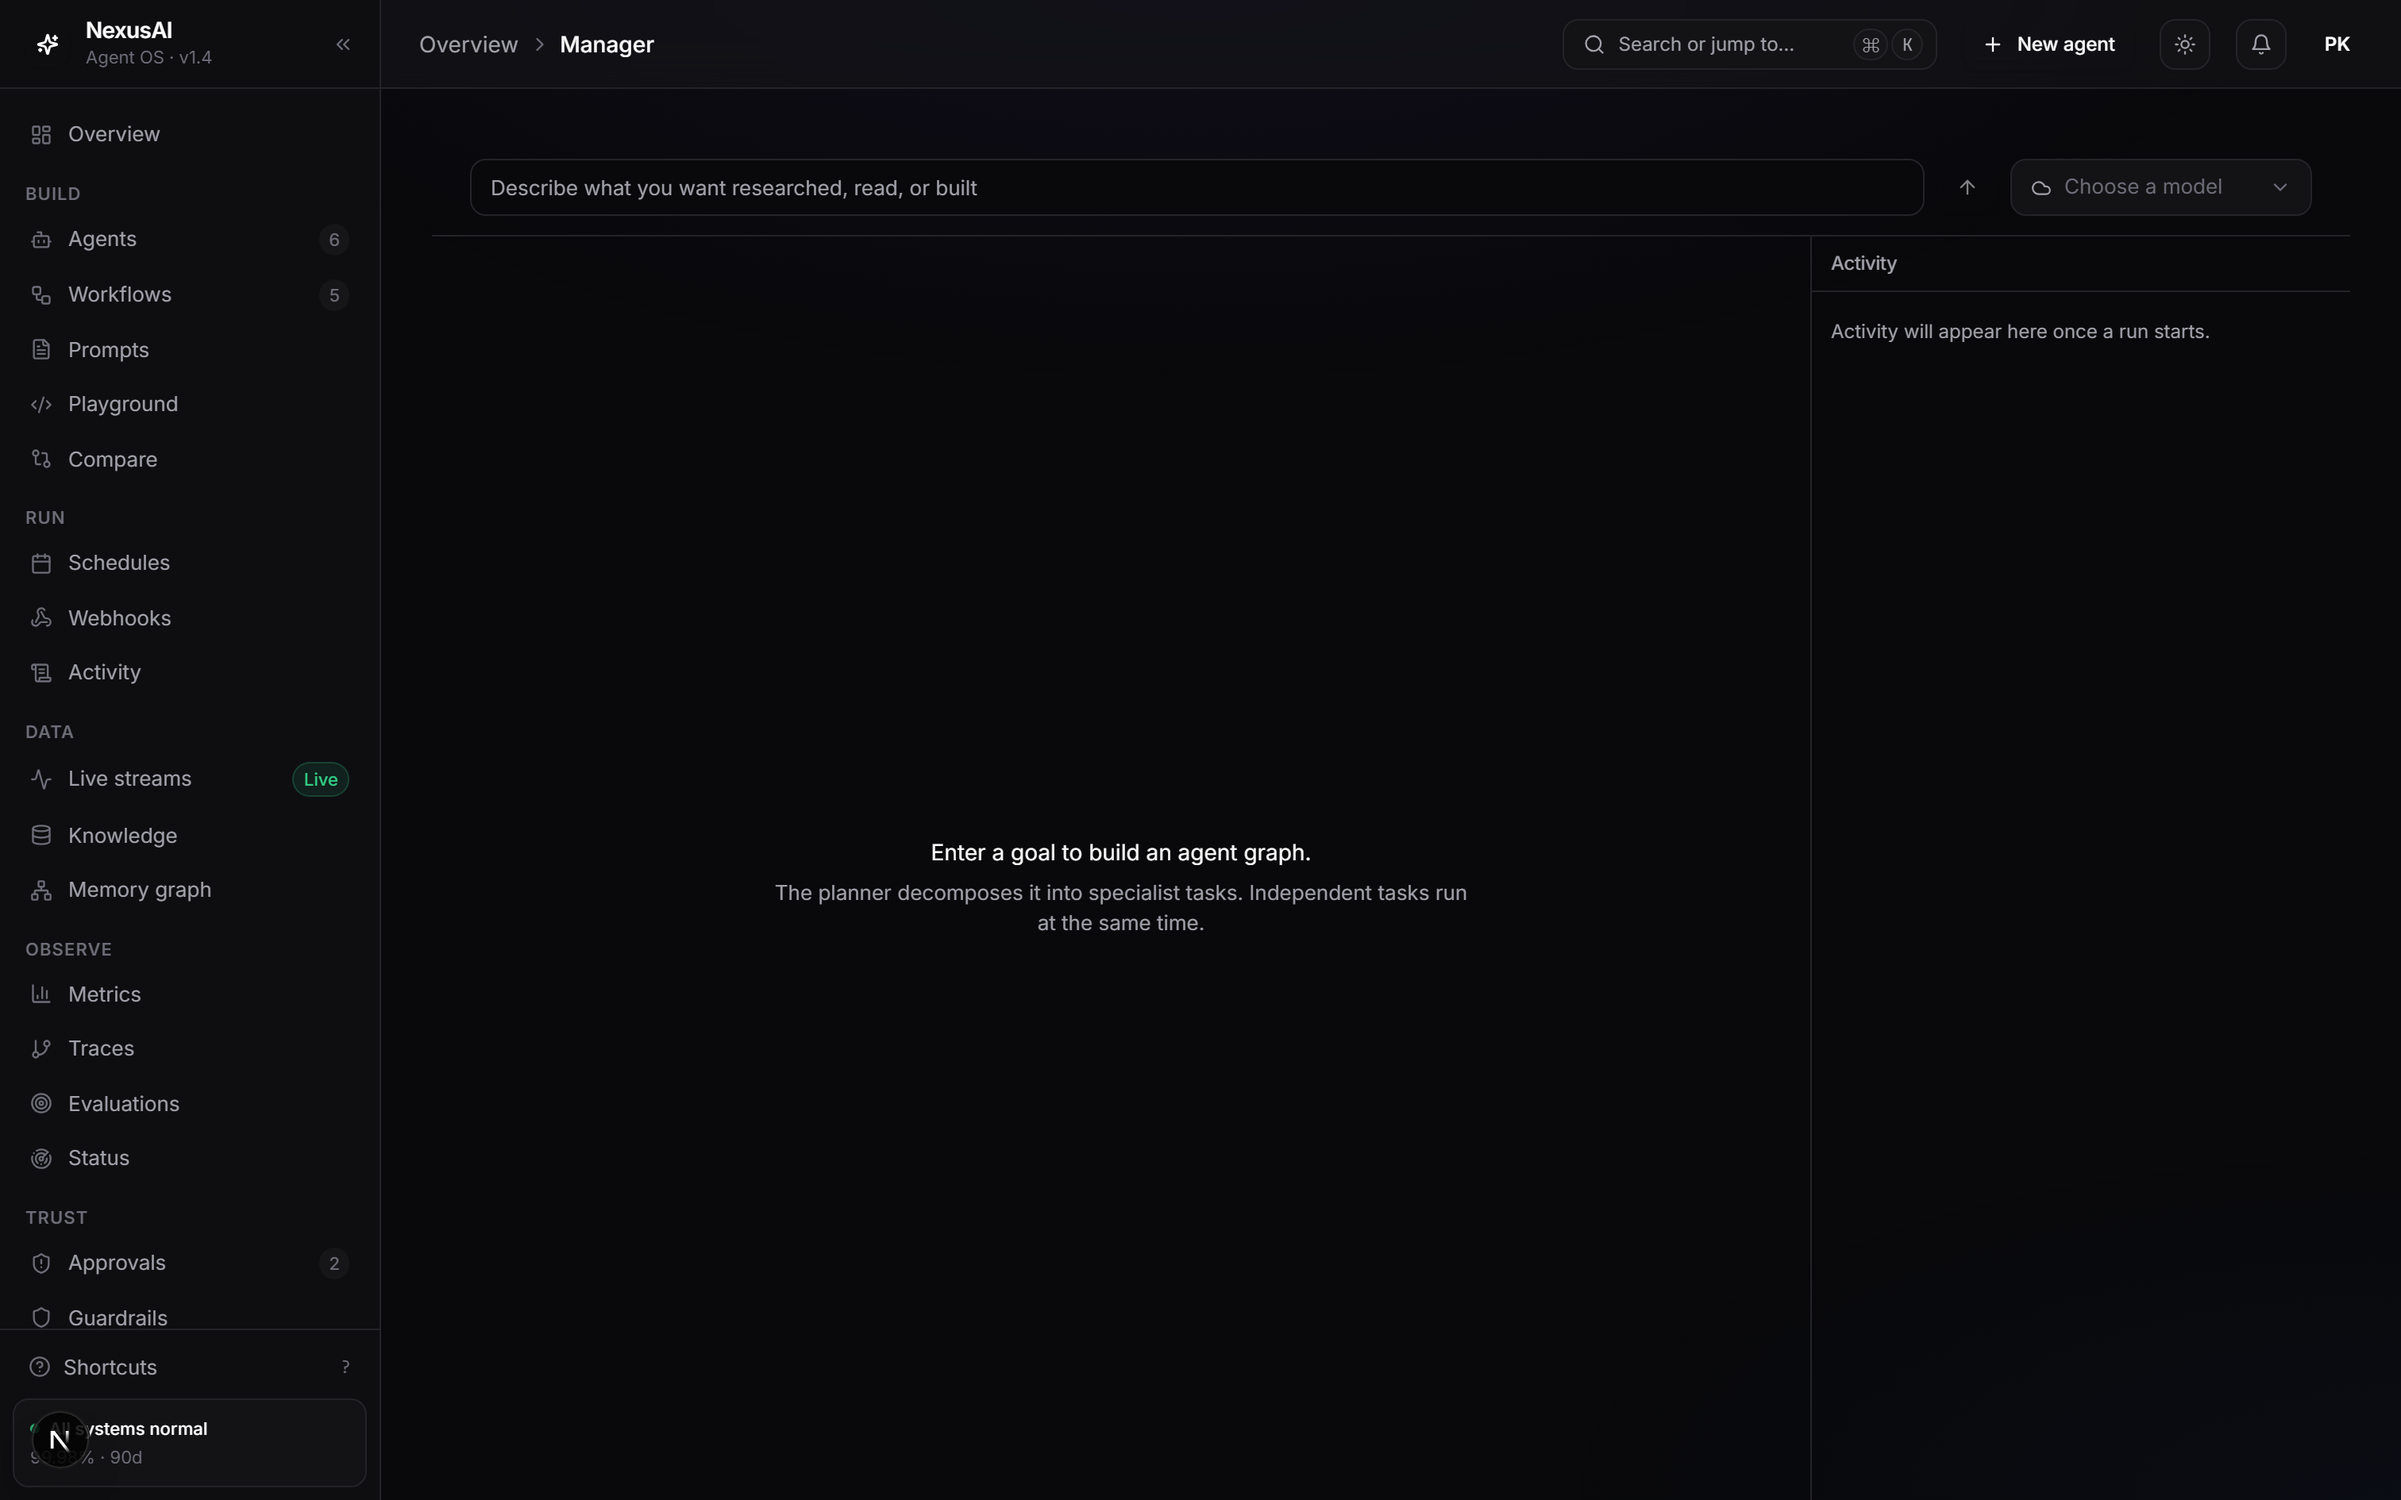
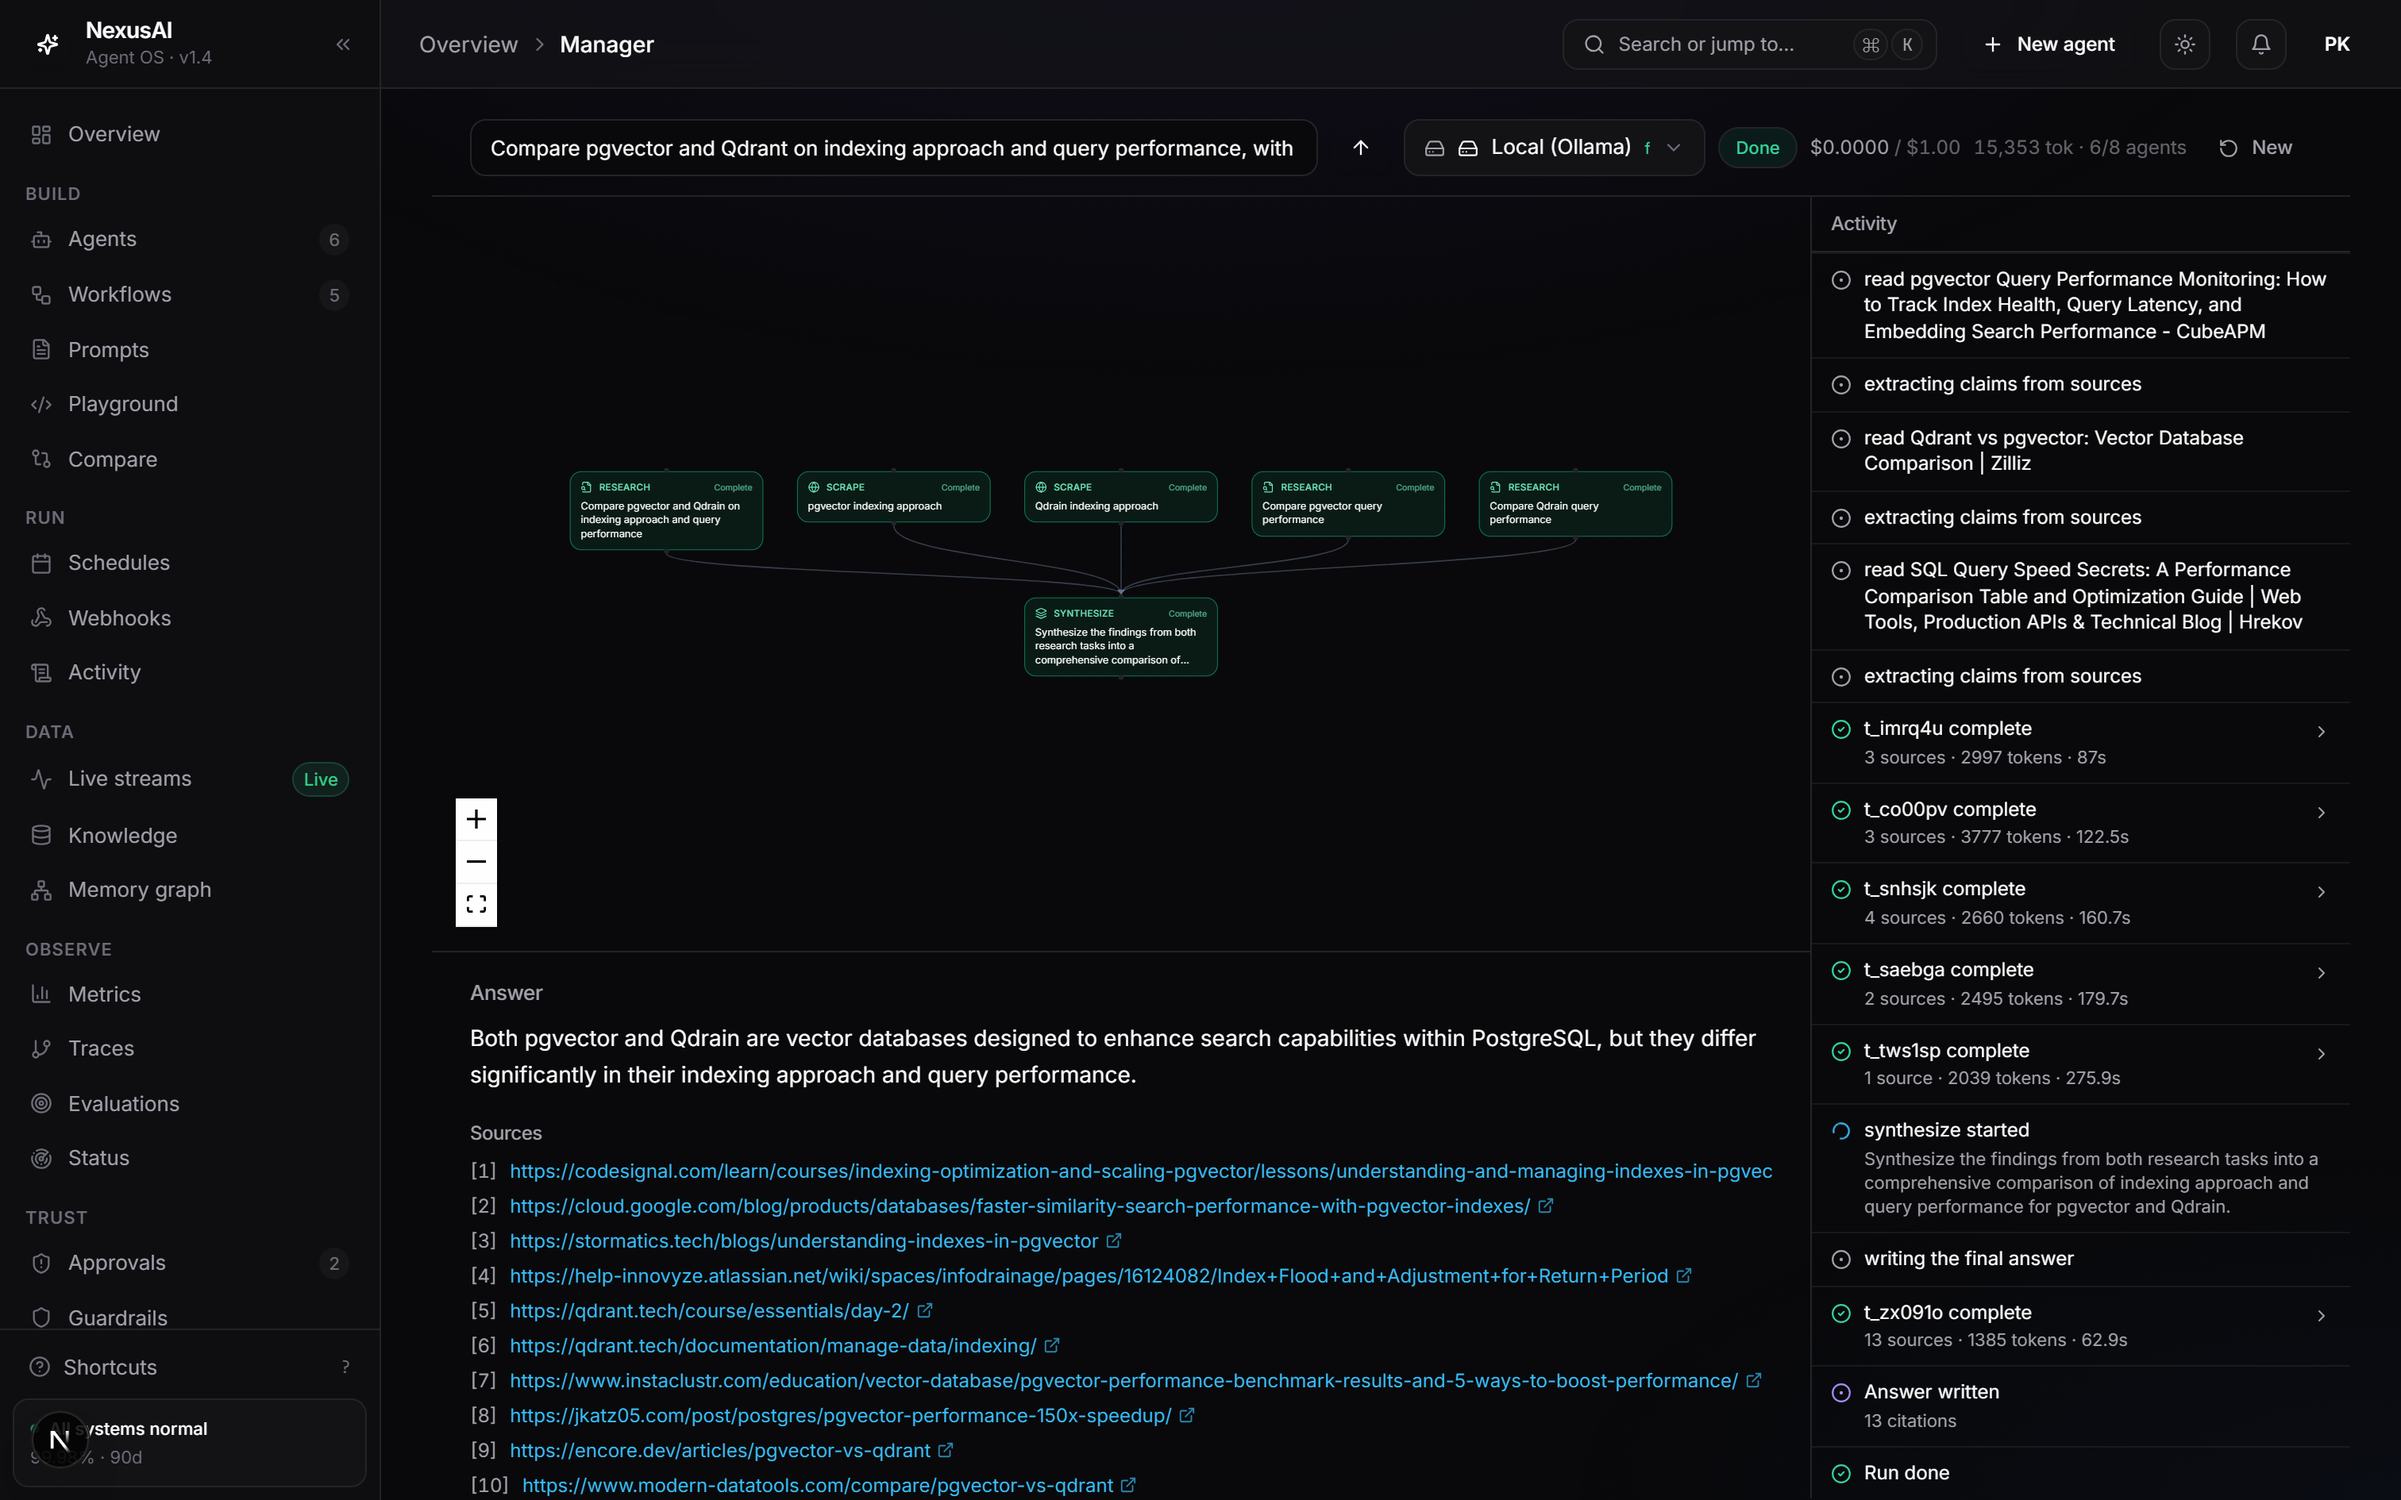
feat(web): deep-link runs, live budget, and a real manager screenshot
Three things, all found by capturing the page against a real run.

A run was not linkable. Its state lived only in React, so closing the tab lost
it and there was no way to hand a run to someone else. `?run=<id>` now reopens a
run — goal, plan and current state are loaded and the event stream replays from
the beginning — and starting a run puts its id in the URL.

The budget in the header read zero for the whole run while workers were visibly
burning thousands of tokens. The run record only gets its final budget when the
run ends, and a snapshot event is only published under budget pressure, so
neither source alone reports anything mid-run. Spend is now derived from the
worker_done events as they arrive.

The manager screenshot is a genuine completed run against a local model, not a
posed empty state: six nodes green, the answer, and thirteen real citations.

Verified end to end on qwen2.5:1.5b through Ollama — planning, five-way parallel
fan-out, real page fetches from qdrant.tech, cloud.google.com and others, then
synthesis. Status done, 15,353 tokens, 6 of 8 agents, $0.00.

191 unit tests pass; web typecheck clean.

diff --git a/apps/web/app/manager/page.tsx b/apps/web/app/manager/page.tsx
@@ -56,6 +56,38 @@ export default function ManagerPage() {
     };
   }, []);
 
+  // ─── Attach to an existing run ────────────────────────────────
+
+  // `?run=<id>` reopens a run: its goal, plan and current state are loaded, and the event
+  // stream replays from the beginning. That makes a run linkable — shareable with someone
+  // else, or reopened after closing the tab, rather than being lost with the page state.
+  useEffect(() => {
+    if (typeof window === "undefined") return;
+    const requested = new URLSearchParams(window.location.search).get("run");
+    if (!requested) return;
+
+    let cancelled = false;
+    managerApi
+      .getRun(requested)
+      .then((run) => {
+        if (cancelled) return;
+        setGoal(run.goal);
+        setDetail(run);
+        setStatus(run.status);
+        if (run.plan) setPlan(run.plan);
+        setRunId(run.run_id);
+      })
+      .catch((error) => {
+        if (cancelled) return;
+        toast.error(
+          error instanceof ManagerUnreachable ? error.message : `Could not open run: ${error.message}`,
+        );
+      });
+    return () => {
+      cancelled = true;
+    };
+  }, []);
+
   // ─── Event stream ─────────────────────────────────────────────
 
   useEffect(() => {
@@ -129,9 +161,33 @@ export default function ManagerPage() {
     return details;
   }, [events]);
 
-  const budget = detail?.budget ?? (events.findLast((e) => e.payload.snapshot)?.payload.snapshot as
-    | RunDetail["budget"]
-    | undefined);
+  // Spend has to be derived from the stream while a run is in flight. The run record only
+  // gets its final budget when the run ends, and a snapshot event is only published under
+  // budget pressure — so relying on either alone leaves the header reading zero for the
+  // whole run while workers are visibly burning tokens.
+  const budget = useMemo(() => {
+    const snapshot = events.findLast((e) => e.payload.snapshot)?.payload.snapshot as
+      | RunDetail["budget"]
+      | undefined;
+    const base = (status === "done" || status === "partial" || status === "error"
+      ? detail?.budget
+      : undefined) ?? snapshot ?? detail?.budget;
+    if (!base) return undefined;
+
+    const finished = events.filter((e) => e.kind === "worker_done");
+    const observedTokens = finished.reduce((sum, e) => sum + (e.payload.result?.tokens_used ?? 0), 0);
+    const observedCost = finished.reduce((sum, e) => sum + (e.payload.result?.cost_usd ?? 0), 0);
+    const observedAgents = new Set(
+      events.filter((e) => e.kind === "worker_start").map((e) => e.payload.task_id),
+    ).size;
+
+    return {
+      ...base,
+      tokens_used: Math.max(base.tokens_used, observedTokens),
+      usd_spent: Math.max(base.usd_spent, observedCost),
+      agents_spawned: Math.max(base.agents_spawned, observedAgents),
+    };
+  }, [detail, events, status]);
 
   const running = status === "running" || status === "planning" || submitting;
 
@@ -153,6 +209,8 @@ export default function ManagerPage() {
       setRunId(started.run_id);
       if (started.plan) setPlan(started.plan);
       setStatus("running");
+      // Put the run in the URL so it survives a refresh and can be handed to someone else.
+      window.history.replaceState(null, "", `?run=${started.run_id}`);
     } catch (error) {
       setStatus(undefined);
       const message =
